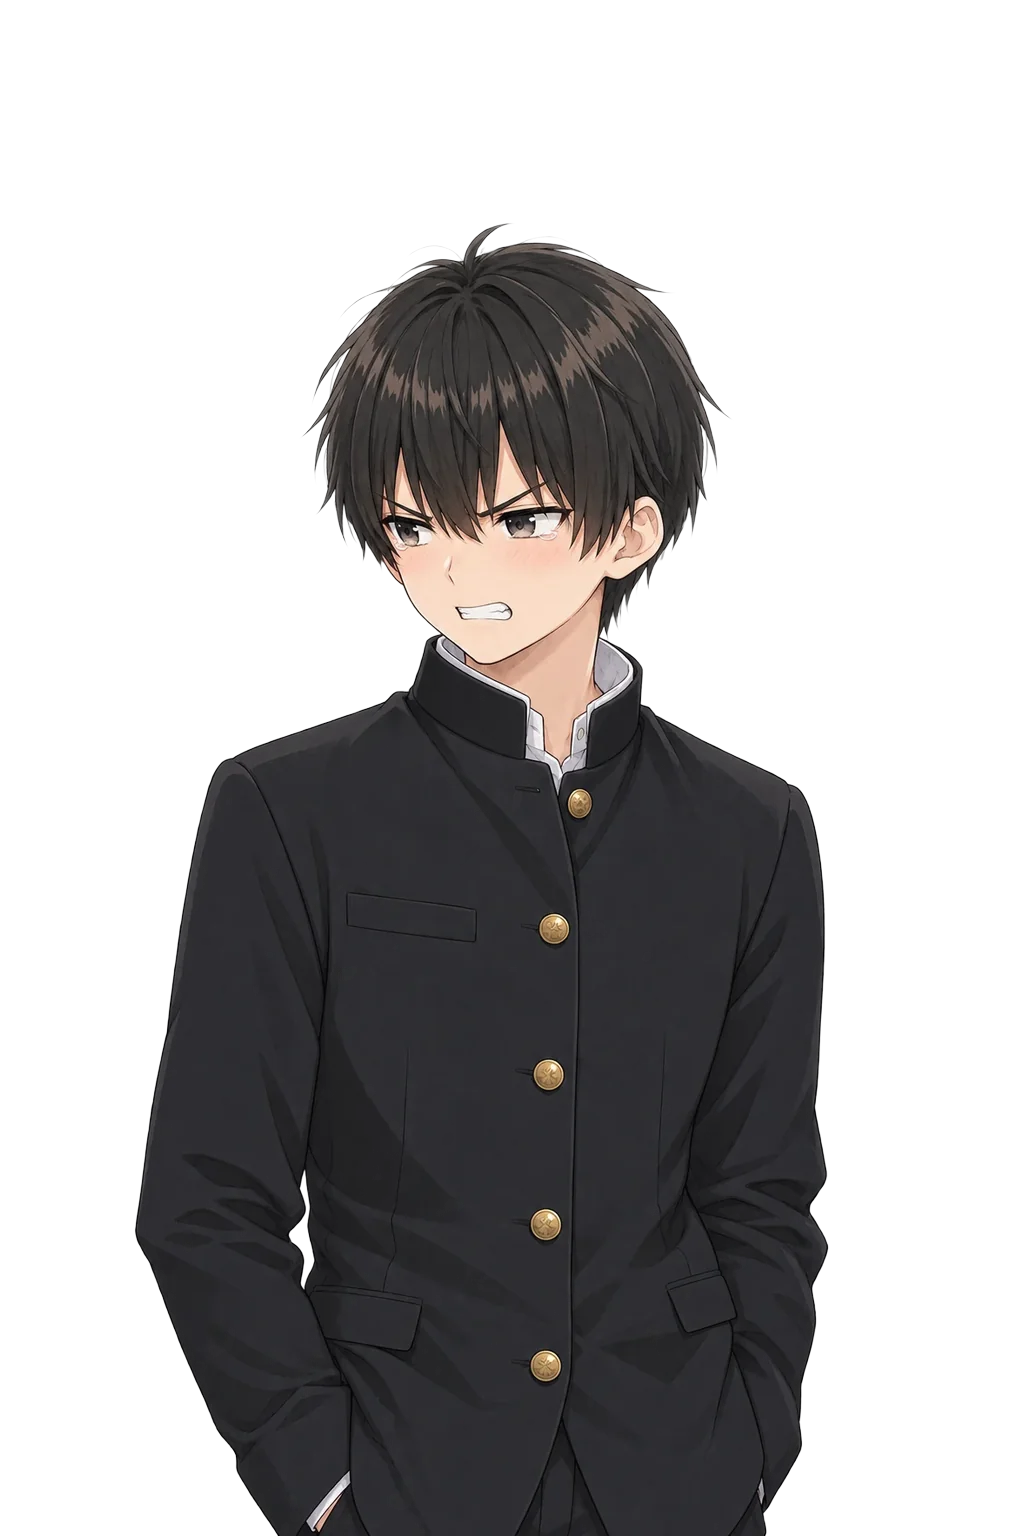
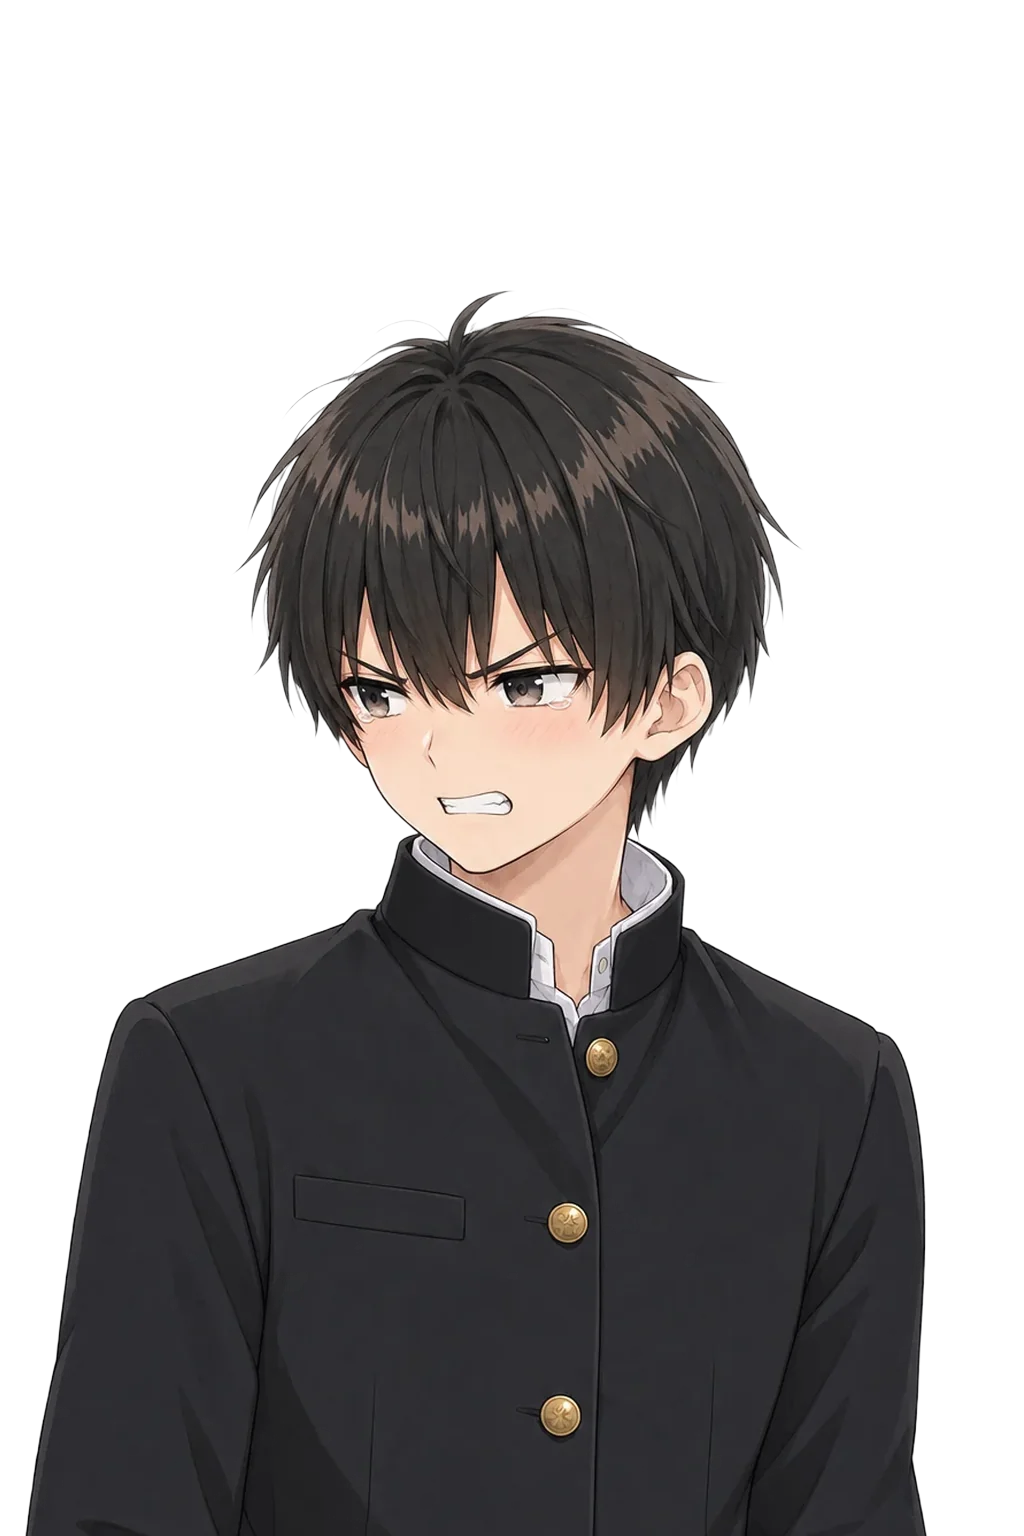
宵乃こよみの事件簿: 立ち絵の白い縁を除去（こよみ・ひなた・誠）・誠と湊の大きさをこよみに合わせる SW v7

diff --git a/koyomi-jikenbo/sprites.js b/koyomi-jikenbo/sprites.js
@@ -55,6 +55,12 @@
  *    湊の3枚は父より頭が約2割大きく見えたため、下端そろえで0.87倍に縮めている（中学生が父より頭ひとつ低くなる）。
  *    minato_cry は腕と胴のすき間・髪の外周に背景の白が残っていたので、その白だけ透明にしている（白いシャツの袖口は残す）
  *  - 画像が読めない時は engine.js が名前入りの枠に切り替える（デプロイで webp のコピーが漏れても壊れた画像の印は出ない）
+ *  - 同日夕方（オーナー指摘「こよみと誠の大きさが全然違う」「こよみに白背景が残っている」）:
+ *    ・大きさ: 枠は全員同じで、絵の中の顔の大きさが違っていた（頬から頬: こよみ約370・誠約270＝こよみは膝上の絵を1.6倍に切り出した版）。
+ *      第一夜（公開済み・オーナー調整済み）は変えず、誠を上端そろえで1.3倍、湊を「顔の幅が誠の0.95倍・頭のてっぺんが誠より約260px下」に置き直した
+ *      （湊の0.87倍版は廃止。縮める前の原版から作り直し）。新しい人物を足すときは、こよみ・ひなたと同じ枠で並べて顔の幅をそろえる
+ *    ・白い縁: こよみ5・ひなた5・誠4から、輪郭線の外にはみ出した白と外周の白っぽい画素（内側の色に塗り替え）、
+ *      こよみ・ひなたは髪と着物のあいだに残った細い背景の筋も除いた。半襟・袖の内側・袖口・誠の白髪のメッシュは残している
  *  - 背景は { css, img, shade } に。img を足すと画像になり、css は画像が無い時・読み込み中の下地。
  *    shade は画像の上に重ねる暗さ（0〜1。店の「薄暗い」版は同じ絵を暗くして使う）
  */

diff --git a/koyomi-jikenbo/sw.js b/koyomi-jikenbo/sw.js
@@ -1,5 +1,5 @@
 // 宵乃こよみの事件簿 Service Worker (network-first・オフライン時のみキャッシュ)
-const CACHE = "koyomi-jikenbo-v6"; // 2026-10-12 第一夜の隠し結末の月の一文を背景の絵に合わせる（v5 第二夜の公開・v4 第一夜の改善）。画像は事前キャッシュに入れない（通常の取得時に自動で貯まる）
+const CACHE = "koyomi-jikenbo-v7"; // 2026-10-12 立ち絵の白い縁を除去・誠と湊の大きさをこよみに合わせる（v6 第一夜の月の一文・v5 第二夜の公開・v4 第一夜の改善）。画像は事前キャッシュに入れない（通常の取得時に自動で貯まる）
 const ASSETS = ["./", "./index.html", "./scenario.js", "./scenario-2.js", "./episodes.js", "./sprites.js", "./logic.js", "./audio.js", "./engine.js", "./manifest.json", "./icon-192.png", "./icon-512.png", "./jp-phrase-4.js", "./fonts/shippori-b1-800.woff"];
 
 self.addEventListener("install", (e) => {
